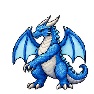
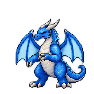
Retract dragon claw arm gradually over frames 7 through 10

diff --git a/design/enemies/dragon_frost/attack_claw/PROMPT.md b/design/enemies/dragon_frost/attack_claw/PROMPT.md
@@ -1,1 +1,1 @@
-Built-in image_gen. Base: ../move/dragon_frost_1.png. Generate entire coherent ten-frame5x2 transparent sprite sheet of same blue frost dragon, small blue eyes and original detailed pixel-art. Frame1 normal,2 lifting elbow,3 shoulder high,4 above head,5 full windup,6 fast downward diagonal claw slash,7 low followthrough,8 return,9 nearly resting,10 normal. Viewer-right/front forearm attacks; grounded hindfeet, stable wings and tail. No fire, weapons, slash effects or pasted body parts. Export ten94x94 transparent PNGs in numeric order. Correction: planted feet baseline y91 in every frame, stable hips and head, original narrow blue-eyed face, frame10 equals frame1. Preview frame delays(ms): 180,120,120,140,140,80,80,120,120,180.
+Built-in image_gen. Base: ../move/dragon_frost_1.png. Generate entire coherent ten-frame5x2 transparent sprite sheet of same blue frost dragon, small blue eyes and original detailed pixel-art. Frame1 normal,2 lifting elbow,3 shoulder high,4 above head,5 full windup,6 fast downward diagonal claw slash,7 low followthrough,8 return,9 nearly resting,10 normal. Viewer-right/front forearm attacks; grounded hindfeet, stable wings and tail. No fire, weapons, slash effects or pasted body parts. Export ten94x94 transparent PNGs in numeric order. Correction: frames1-6 preserved. Frame7 hand draws toward belly, frame8 elbow tucks and hand retracts near chest, frame9 lowers to own hip, frame10 resting. Planted feet baseline y91 in every frame, stable hips and head, original narrow blue-eyed face, frame10 equals frame1. Preview frame delays(ms): 180,120,120,140,140,80,80,120,120,180.
